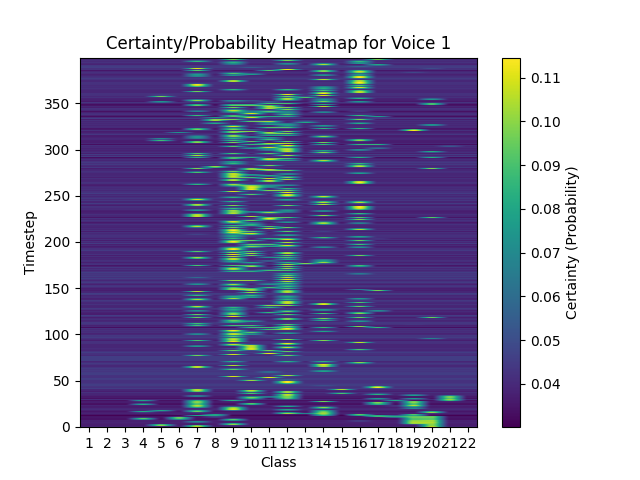
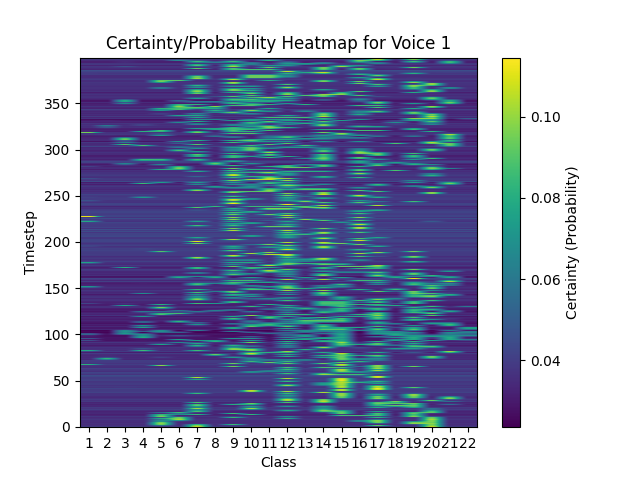
Added sampling to predictions

diff --git a/Model_LR/predictor.py b/Model_LR/predictor.py
@@ -4,7 +4,8 @@ from Dataset.dataset import CustomDataset
 import torch
 import numpy as np
 
-def predict_bach(last_timestep, model, output_to_input_converter, note_min, note_max, timesteps = 400):
+# k is how many top predictions we randomly sample from. This can be tuned
+def predict_bach(last_timestep, model, output_to_input_converter, note_min, note_max, timesteps = 400, k = 5): 
     max_prediction = []
     all_predictions = []
     with torch.no_grad():
@@ -12,11 +13,19 @@ def predict_bach(last_timestep, model, output_to_input_converter, note_min, note
             last_timestep_twod = last_timestep.unsqueeze(0)  # Shape becomes [1, 22]
             output = model(last_timestep_twod)
             all_predictions.append(output)
-            output_max = torch.argmax(output)
+            output_max = torch.argmax(output) # for just getting the max pred
+            # print("max output: ", output_max)
+
+            topk_probs, topk_indices = torch.topk(output, k)
+            topk_probs = torch.softmax(topk_probs, dim=-1)
+
+            # select an index based on top-n probabilities
+            sampled_index = torch.multinomial(topk_probs, num_samples=1).item()
+            chosen_index = topk_indices[0, sampled_index]
 
             # Output is now from 0-22, but to feed back into data augmentation we need to 
             # convert it back into the MIDI-like format form 0-127
-            raw_input_domain_output = [output_to_input_converter[output_max]]
+            raw_input_domain_output = [output_to_input_converter[chosen_index]]
             aug_output = augmented_encoding(raw_input_domain_output, note_min, note_max)
             aug_X_tensor = torch.tensor(aug_output, dtype=torch.float32)
             aug_X_tensor = torch.flatten(aug_X_tensor)
@@ -24,6 +33,6 @@ def predict_bach(last_timestep, model, output_to_input_converter, note_min, note
             last_timestep = torch.cat((last_timestep[5:], aug_X_tensor), 0)
             max_prediction.append(raw_input_domain_output[0])
 
-    return np.array(max_prediction), np.array(all_predictions)
+    return np.array(max_prediction), torch.stack(all_predictions).numpy()
 
 

diff --git a/Data Analysis/Data_visualization.py b/Data Analysis/Data_visualization.py
@@ -143,10 +143,10 @@ def main():
     path = "F.txt"  # File path to the text file
     data = pd.read_csv(path, sep="\t", header=None)  # Load tab-separated values
 
-    # plot_scatter(data, title="Scatter Plot of Notes")
-    # plot_histograms(data, title="Histogram of Notes")
-    # plot_3d(data, title="3D Visualization of Notes")
-    # plot_zero_distribution_per_voice(data, title="Distribution of Silence (0) vs Non-Zero Values")
+    plot_scatter(data, title="Scatter Plot of Notes")
+    plot_histograms(data, title="Histogram of Notes")
+    plot_3d(data, title="3D Visualization of Notes")
+    plot_zero_distribution_per_voice(data, title="Distribution of Silence (0) vs Non-Zero Values")
     plot_correlation_of_voice(data, title="Correlation Matrix of Notes")
     plot_next_note_correlation(data, title="Next Note Correlation Matrix")
 

diff --git a/Data Analysis/tempCodeRunnerFile.py b/Data Analysis/tempCodeRunnerFile.py
@@ -1,5 +1,4 @@
-
+    plot_scatter(data, title="Scatter Plot of Notes")
+    plot_histograms(data, title="Histogram of Notes")
+    plot_3d(data, title="3D Visualization of Notes")
     plot_zero_distribution_per_voice(data, title="Distribution of Silence (0) vs Non-Zero Values")
-
-if __name__ == "__main__":
-    main()

diff --git a/main.py b/main.py
@@ -45,6 +45,7 @@ def main():
 
     """ Run model to Predict Bach"""
     max_pred, all_preds = predictor.predict_bach(flat_X_train_tensor[-1], model, output_to_input_convert, non_zero_min_note, max_note)
+    print(max_pred, all_preds)
 
     """ Postprocess data """
 
